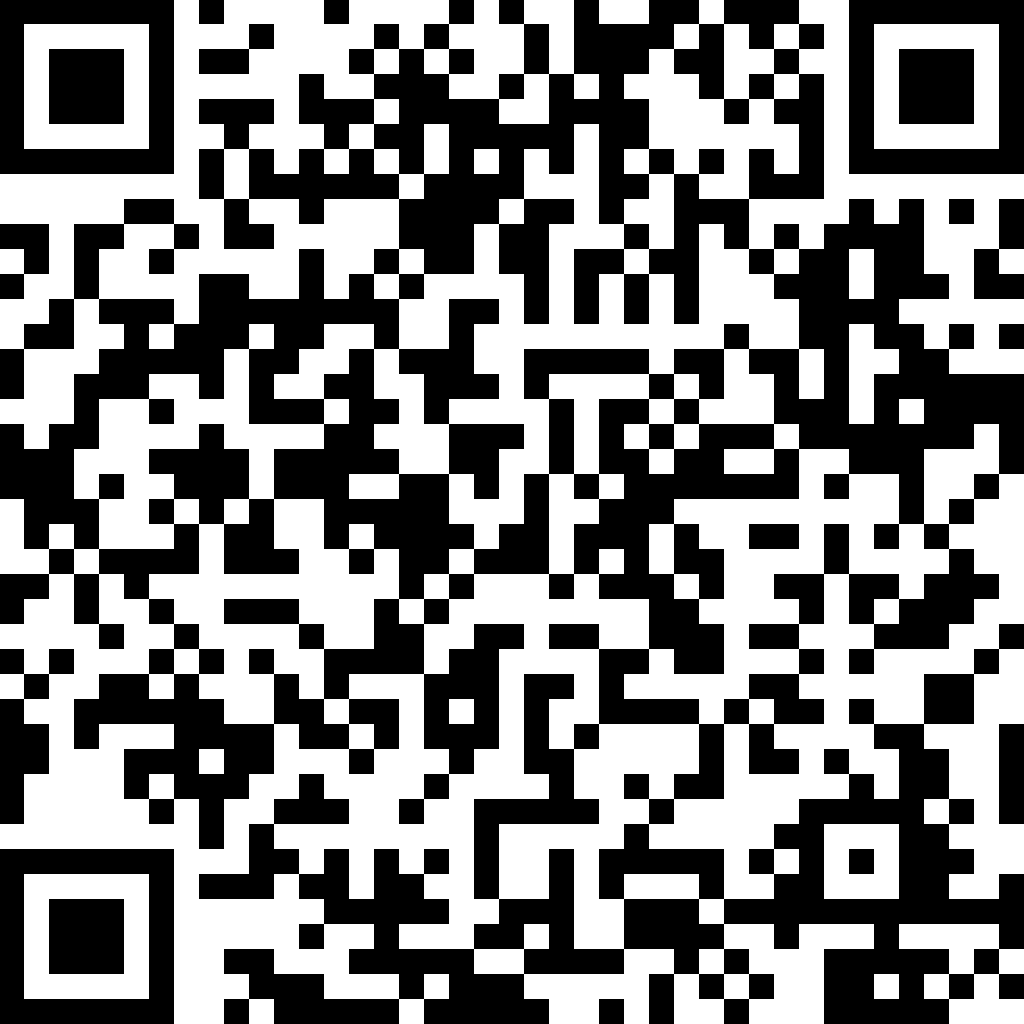
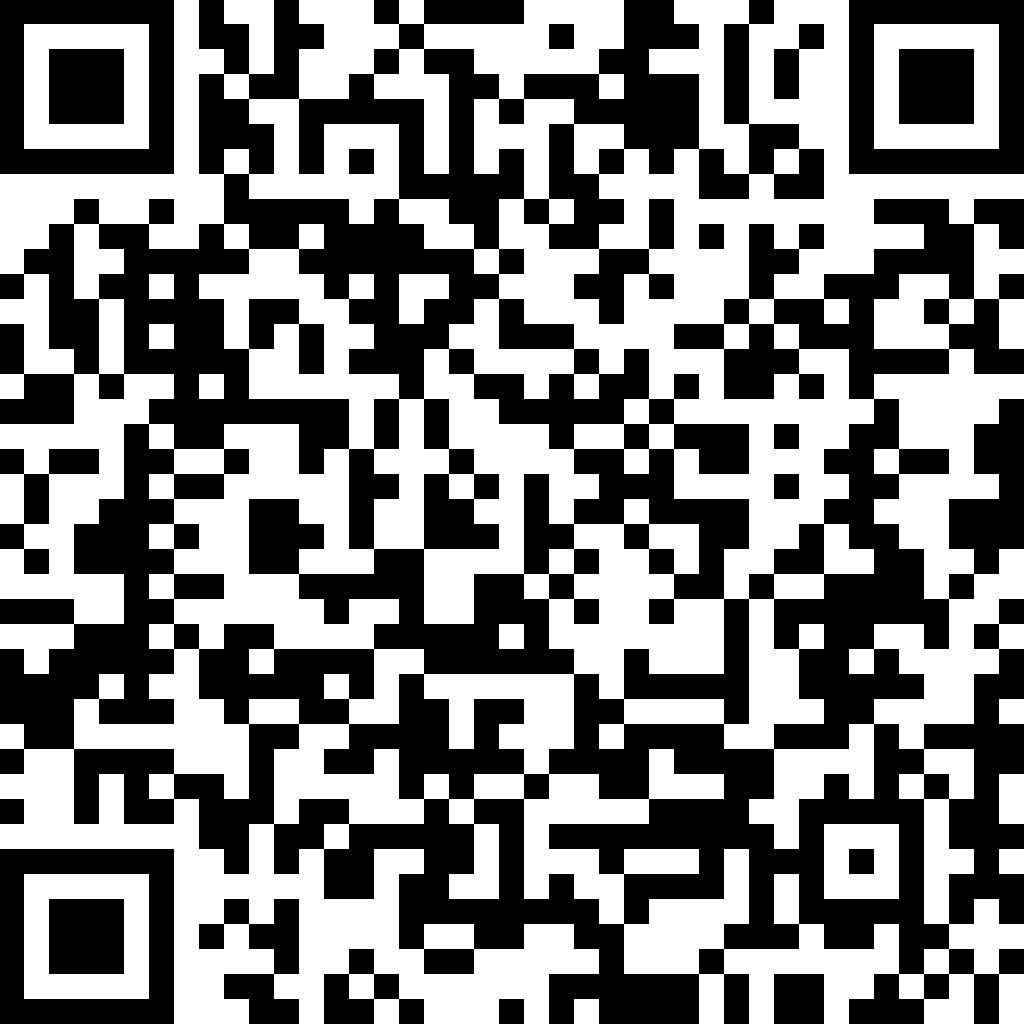
Evita cache antigo no QR Code

diff --git a/index.html b/index.html
@@ -13,7 +13,7 @@
 <link rel="preconnect" href="https://fonts.googleapis.com">
 <link rel="preconnect" href="https://fonts.gstatic.com" crossorigin>
 <link rel="stylesheet" href="https://fonts.googleapis.com/css2?family=Fredoka:wght@500;600;700&display=swap">
-<link rel="stylesheet" href="css/style.css">
+<link rel="stylesheet" href="css/style.css?v=2">
 </head>
 <body>
 
@@ -93,13 +93,13 @@
 
 <p id="girar" class="oculto">↻ vire o celular para jogar em tela cheia</p>
 
-<script src="js/assets-dados.js"></script>
-<script src="js/assets-homem.js"></script>
-<script src="js/assets.js"></script>
-<script src="js/curiosidades.js"></script>
-<script src="js/audio.js"></script>
-<script src="js/cenario-vulcanico.js"></script>
-<script src="js/game.js"></script>
-<script src="js/main.js"></script>
+<script src="js/assets-dados.js?v=2"></script>
+<script src="js/assets-homem.js?v=2"></script>
+<script src="js/assets.js?v=2"></script>
+<script src="js/curiosidades.js?v=2"></script>
+<script src="js/audio.js?v=2"></script>
+<script src="js/cenario-vulcanico.js?v=2"></script>
+<script src="js/game.js?v=2"></script>
+<script src="js/main.js?v=2"></script>
 </body>
 </html>

diff --git a/ferramentas/gerar-qrcode.js b/ferramentas/gerar-qrcode.js
@@ -14,7 +14,7 @@ const path = require('path');
 const { spawn } = require('child_process');
 
 const raiz = path.join(__dirname, '..');
-const endereco = process.argv[2] || 'https://luferreiradev.github.io/JURASSICUNEF/';
+const endereco = process.argv[2] || 'https://luferreiradev.github.io/JURASSICUNEF/?v=2';
 const saida = path.resolve(process.argv[3] || path.join(raiz, 'qrcode.png'));
 const pagina = path.join(raiz, 'qr.html');
 const porta = 9334;

diff --git a/qr.html b/qr.html
@@ -71,7 +71,7 @@
   // Sugere o endereco do proprio jogo: esta pagina mora ao lado do index.html,
   // entao basta trocar "qr.html" pela raiz.
   campo.value = location.protocol === 'file:'
-    ? 'https://luferreiradev.github.io/JURASSICUNEF/'
+    ? 'https://luferreiradev.github.io/JURASSICUNEF/?v=2'
     : location.href.replace(/qr\.html.*$/, '');
 
   function gerar() {

diff --git a/README.md b/README.md
@@ -8,7 +8,7 @@ Você é um **homem das cavernas** correndo com um tacape por
 uma paisagem vulcânica, desviando de pedras, cactos, poças de piche e de um
 **dinossauro predador** que vem de frente.
 
-**Jogar:** https://luferreiradev.github.io/JURASSICUNEF/
+**Jogar:** https://luferreiradev.github.io/JURASSICUNEF/?v=2
 
 O QR Code pronto para o cartaz está em [`qrcode.png`](qrcode.png) (1024×1024).
 
